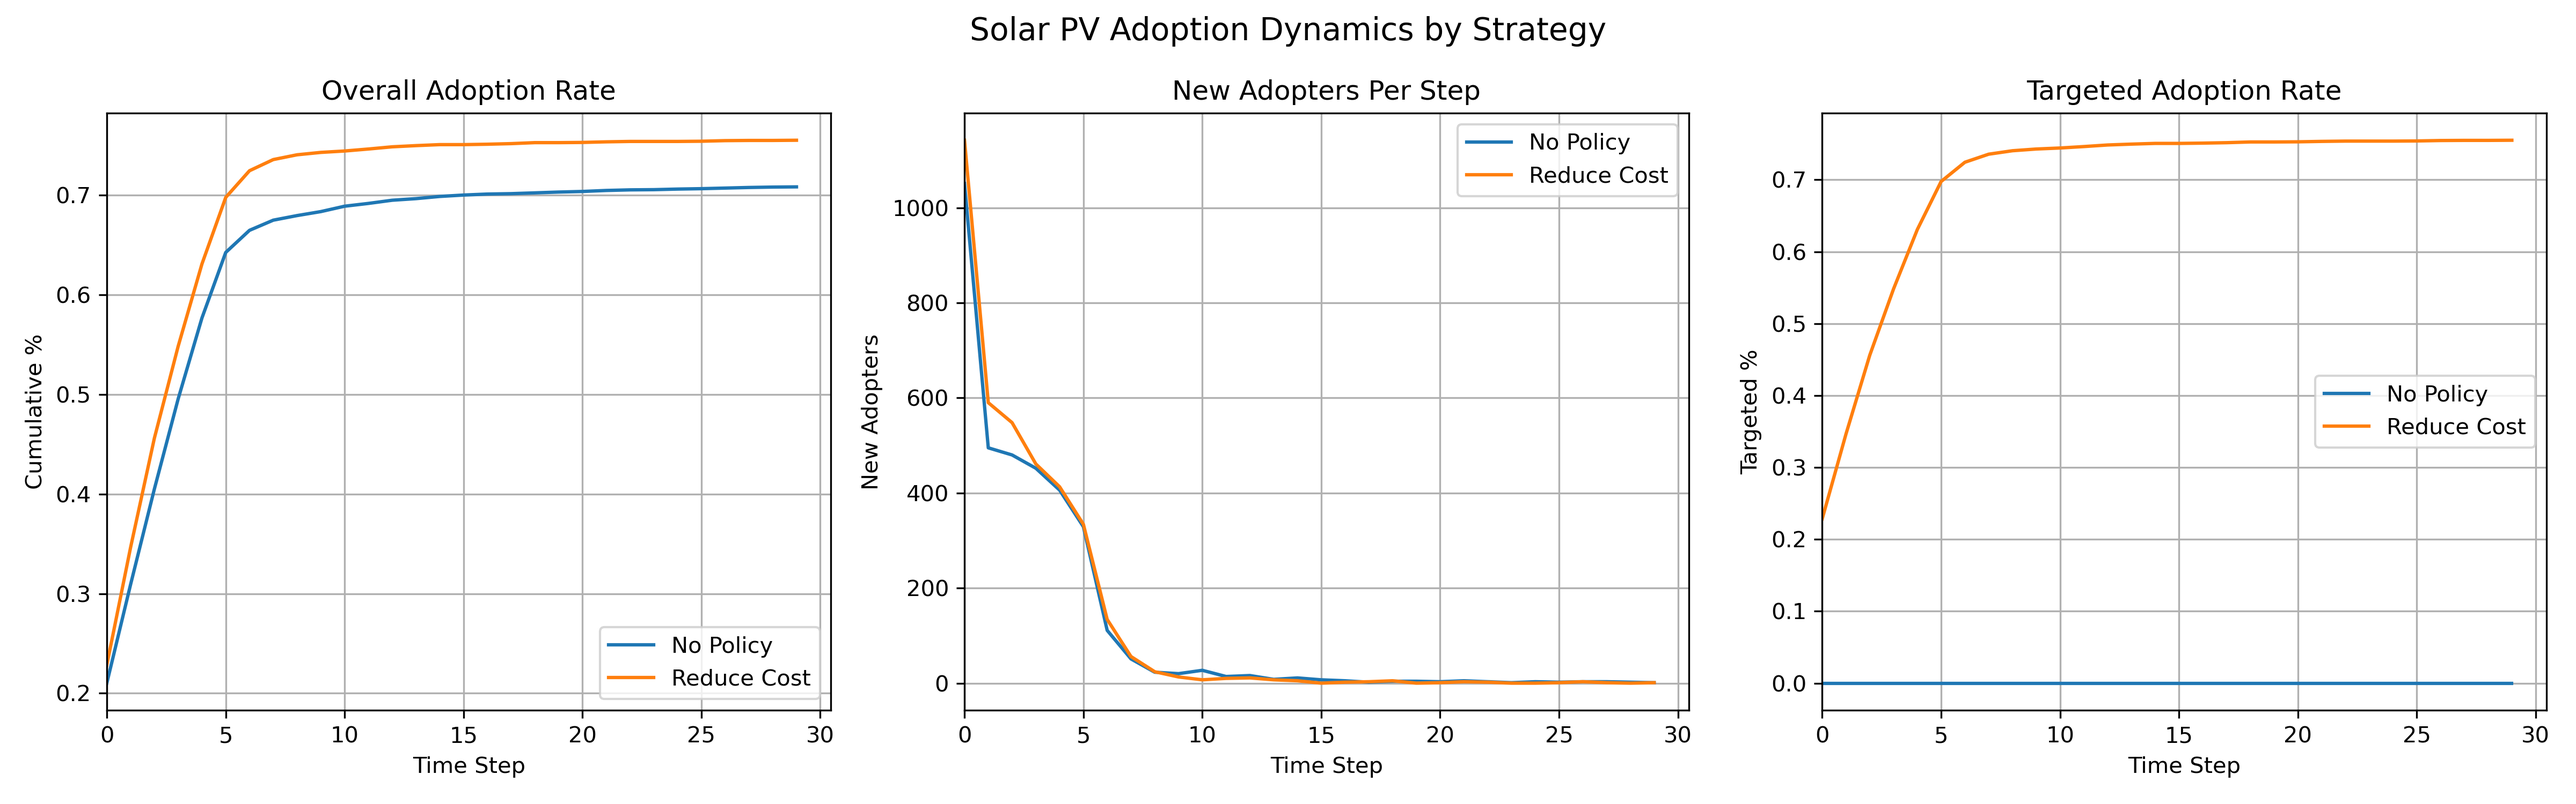
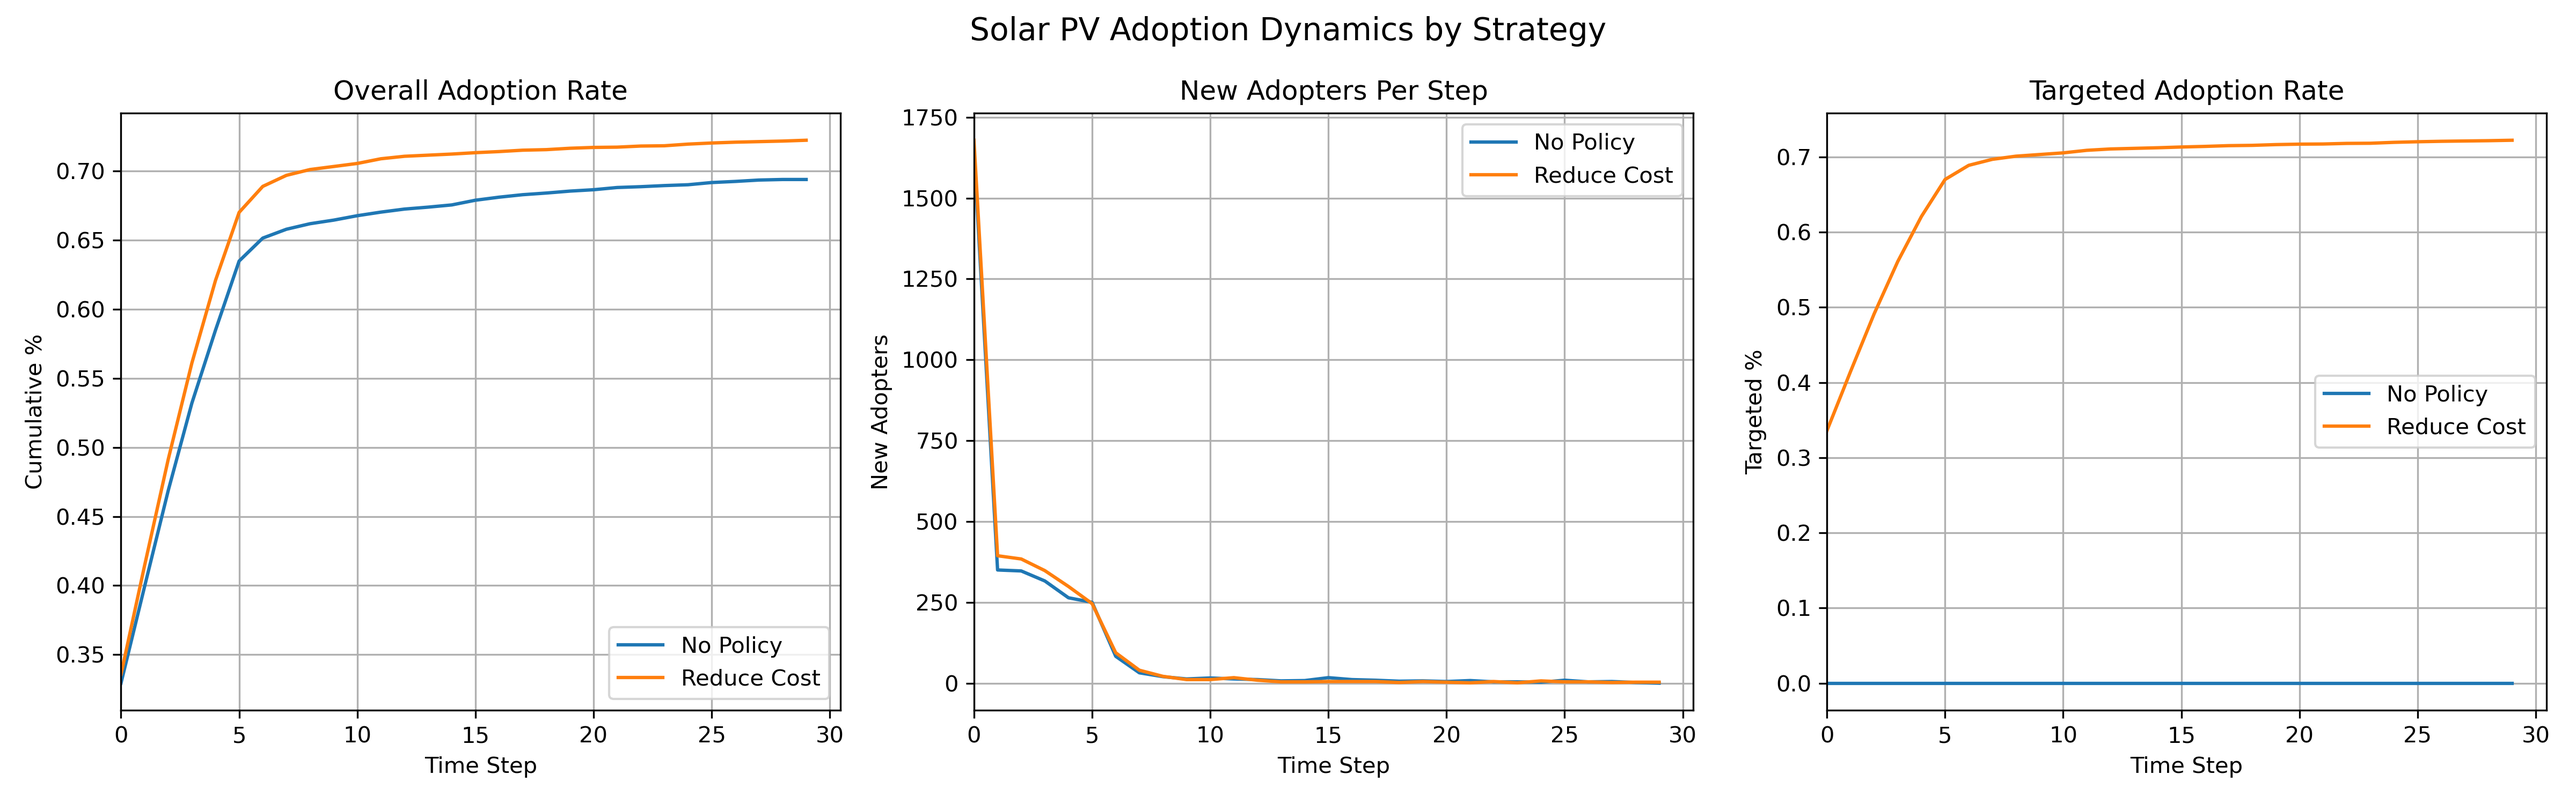
update plots

diff --git a/visualization.py b/visualization.py
@@ -1,43 +1,93 @@
 import matplotlib.pyplot as plt
 import networkx as nx
-import numpy as np
 import os
+from collections import Counter
+import numpy as np
 
-def plot_all_results(strategy_results_dict, save_path="result/adoption_withdataandpolicy.png"):
-    fig, axs = plt.subplots(1, 3, figsize=(16, 5))
-    axs = axs.flatten()
-
-    for strategy, result in strategy_results_dict.items():
-        label = strategy.replace("_", " ").title()
-        axs[0].plot(result["adoption_rate"], label=label)
-        axs[1].plot(result["new_adopters"], label=label)
-        axs[2].plot(result["targeted_adoption_rate"], label=label)
-
-    axs[0].set_title("Overall Adoption Rate")
-    axs[0].set_ylabel("Cumulative %")
-    axs[0].set_xlabel("Time Step")
-    axs[0].grid(True)
-
-    axs[1].set_title("New Adopters Per Step")
-    axs[1].set_ylabel("New Adopters")
-    axs[1].set_xlabel("Time Step")
-    axs[1].grid(True)
-
-    axs[2].set_title("Targeted Adoption Rate")
-    axs[2].set_ylabel("Targeted %")
-    axs[2].set_xlabel("Time Step")
-    axs[2].grid(True)
-
-    for ax in axs:
-        ax.legend()
-        ax.set_xlim(left=0)
-
-    plt.suptitle("Solar PV Adoption Dynamics by Strategy", fontsize=14)
+def plot_adoption_rate(results_by_behavior):
+    plt.figure(figsize=(8, 5))
+    for name, results in results_by_behavior.items():
+        plt.plot(results["adoption_rate"], label=name)
+    plt.title("Overall Adoption Rate")
+    plt.xlabel("Time Step")
+    plt.ylabel("Cumulative %")
+    plt.grid(True)
+    plt.legend()
     plt.tight_layout()
-    plt.savefig(save_path, dpi=300)
+    plt.savefig("result/adoption_rate.png")
     plt.close()
 
-def visualize_network_diffusion(model, steps_to_plot=[0, 5, 10, 20, 30], save_dir="result"):
+
+def plot_new_adopters(results_by_behavior):
+    plt.figure(figsize=(8, 5))
+    for name, results in results_by_behavior.items():
+        plt.plot(results["new_adopters"], label=name)
+    plt.title("New Adopters per Step")
+    plt.xlabel("Time Step")
+    plt.ylabel("New Adopters")
+    plt.grid(True)
+    plt.legend()
+    plt.tight_layout()
+    plt.savefig("result/new_adopters.png")
+    plt.close()
+
+def plot_adoption_by_group(models_by_behavior):
+    household_types = ["single", "couple_no_kids", "with_kids", "single_parent"]
+    fig, axs = plt.subplots(2, 2, figsize=(14, 10))
+    axs = axs.flatten()
+
+    for i, ht in enumerate(household_types):
+        ax = axs[i]
+        for name, model in models_by_behavior.items():
+            series = model.results["group_adoption"].get(ht, [])
+            ax.plot(series, label=name)
+        ax.set_title(f"Adoption Rate - {ht}")
+        ax.set_xlabel("Time Step")
+        ax.set_ylabel("Cumulative %")
+        ax.grid(True)
+        ax.legend()
+
+    plt.tight_layout()
+    plt.savefig("result/adoption_by_group.png")
+    plt.close()
+
+
+def plot_status_transitions(models_by_behavior):
+    fig, axs = plt.subplots(1, len(models_by_behavior), figsize=(6 * len(models_by_behavior), 5))
+    if len(models_by_behavior) == 1:
+        axs = [axs]
+
+    for ax, (name, model) in zip(axs, models_by_behavior.items()):
+        for status, series in model.results["status_transitions"].items():
+            time_series = [series.get(t, 0) for t in range(len(model.results["adoption_rate"]))]
+            ax.plot(time_series, label=status)
+        ax.set_title(f"Status Transition - {name}")
+        ax.set_xlabel("Time Step")
+        ax.set_ylabel("Fraction of Agents")
+        ax.grid(True)
+        ax.legend()
+
+    plt.tight_layout()
+    plt.savefig("result/status_transitions.png")
+    plt.close()
+
+def plot_distributions(models_by_behavior):
+    for name, model in models_by_behavior.items():
+        dist = model.results["distributions"]
+        for var in ["V", "S", "P"]:
+            plt.figure(figsize=(8, 5))
+            for t, values in enumerate(dist[var]):
+                if t % 5 == 0:  # sample every 5 steps
+                    plt.hist(values, bins=30, alpha=0.5, label=f"t={t}", density=True)
+            plt.title(f"Distribution of {var} over Time ({name})")
+            plt.xlabel(var)
+            plt.ylabel("Density")
+            plt.legend()
+            plt.tight_layout()
+            plt.savefig(f"result/dist_{var}_{name}.png")
+            plt.close()
+
+def plot_network(model, steps_to_plot=[0, 5, 10, 20, 30], save_dir="result"):
     """
     Plots the network at specific time steps with color showing adoption.
     """

diff --git a/model_simple.py b/model_simple.py
@@ -10,8 +10,6 @@ class ABM:
     def __init__(self,
                  n_agents,
                  beta,
-                 #policy_dict,
-                 #feed_mode,
                  behavior_mode,
                  k_small_world,
                  net_level,
@@ -21,14 +19,12 @@ class ABM:
         self.n_agents = n_agents
         self.beta = beta
         self.policy = Policy(elec_price=0.4, feed_mode="net_metering", behavior_mode=behavior_mode)
-        # self.policy_dict = policy_dict
         self.k_small_world = k_small_world
         self.net_level = net_level
 
         self.agent_data = load_data()
         self.n_agents = min(self.n_agents, len(self.agent_data))
         self.agents = self._init_agents()
-        # self.policy_object = Policy(elec_price=0.4, policy_type="net_metering")
         self.compute_gain_fn = lambda agent, t: compute_gain(agent, t, self.policy)
 
 
@@ -46,8 +42,14 @@ class ABM:
 
         self.results = {
             "adoption_rate": [],
-            "targeted_adoption_rate": [],
             "new_adopters": [],
+            "group_adoption": defaultdict(list),
+            "status_transitions": defaultdict(lambda: defaultdict(int)),
+            "distributions": {
+                "V": [],
+                "S": [],
+                "P": []
+            }
         }
 
     def _init_agents(self):
@@ -82,11 +84,6 @@ class ABM:
     def _record(self, t):
         n_adopted = sum(1 for a in self.agents if a.adopted)
 
-        targeted = [a for a in self.agents if a.is_targeted]
-        n_targeted = len(targeted)
-        n_targeted_adopted = sum(1 for a in targeted if a.adopted)
-        targeted_rate = n_targeted_adopted / n_targeted if n_targeted > 0 else 0
-
         if t == 0:
             new_adopters = n_adopted
         else:
@@ -94,8 +91,30 @@ class ABM:
             new_adopters = n_adopted - int(prev_adopted)
 
         self.results["adoption_rate"].append(n_adopted / self.n_agents)
-        self.results.setdefault("targeted_adoption_rate", []).append(targeted_rate)
         self.results["new_adopters"].append(new_adopters)
+
+        group_map = defaultdict(list)
+        for a in self.agents:
+            group_map[a.household_type].append(a)
+        for g, ags in group_map.items():
+            self.results["group_adoption"][g].append(sum(1 for a in ags if a.adopted) / len(ags))
+
+        status_counts = defaultdict(int)
+        for a in self.agents:
+            status_counts[a.status] += 1
+        for s, count in status_counts.items():
+            self.results["status_transitions"][s][t] = count / self.n_agents
+
+        V_vals, S_vals, P_vals = [], [], []
+        for a in self.agents:
+            p, V, S, _ = a.compute_adoption_probability()
+            V_vals.append(V)
+            S_vals.append(S)
+            P_vals.append(p)
+
+        self.results["distributions"]["V"].append(V_vals)
+        self.results["distributions"]["S"].append(S_vals)
+        self.results["distributions"]["P"].append(P_vals)
 
     def get_results(self):
         return self.results

diff --git a/simulation_simple.py b/simulation_simple.py
@@ -1,6 +1,6 @@
 from model_simple import ABM
 from config import n_agents, n_steps, beta, k_small_world, net_level
-from visualization import plot_all_results, visualize_network_diffusion #, plot_network_graph, plot_spatial_heatmap
+from visualization import plot_adoption_by_group, plot_network, plot_adoption_rate, plot_new_adopters, plot_status_transitions, plot_distributions
 
 def run_simulation(behavior_mode):
     model = ABM(
@@ -23,26 +23,19 @@ if __name__ == "__main__":
     ]
 
 
-    all_results = {}
-    models_by_strategy = {}
+    results_by_behavior = {}
+    models_by_behavior = {}
 
     for behavior_mode in policy_list:
         print(f"Running simulation for: {behavior_mode}")
         model = run_simulation(behavior_mode)
-        models_by_strategy[behavior_mode] = model
-        all_results[behavior_mode] = model.get_results()
-
-    # for policy_dict in policy_list:
-    #     print(f"Running simulation for: {policy_dict}")
-    #     model = run_simulation(policy_dict)
-    #     models_by_strategy[policy_dict] = model
-    #     all_results[policy_dict] = model.get_results()
-
-    plot_all_results(all_results)
-
-    # focus_strategy = "support_vulnerable"
-    #plot_network_graph(models_by_strategy[focus_strategy])
-    #plot_spatial_heatmap(models_by_strategy[focus_strategy])
-    visualize_network_diffusion(model, steps_to_plot=[0, 5, 10, 20, 30])
+        models_by_behavior[behavior_mode] = model
+        results_by_behavior[behavior_mode] = model.get_results()
 
 
+    plot_adoption_rate(results_by_behavior)
+    plot_new_adopters(results_by_behavior)
+    plot_adoption_by_group(models_by_behavior)
+    plot_status_transitions(models_by_behavior)
+    plot_distributions(models_by_behavior)   
+    plot_network(model, steps_to_plot=[0, 5, 10, 20, 30])

diff --git a/agent_simple.py b/agent_simple.py
@@ -122,7 +122,7 @@ class HouseholdAgent:
         # if self.lihezlek:
         #     base += -0.3
         # return base
-        return np.random.normal(loc=-2.0, scale=0.5)
+        return np.random.normal(loc=-3.0, scale=0.5)
 
 
 
@@ -284,7 +284,7 @@ class HouseholdAgent:
                 base_Y += 2
         if self.lihe:
             base_Y -= 1.5
-        return np.clip(base_Y + np.random.normal(0, 1), 3, 10)
+        return np.clip(base_Y + np.random.normal(0, 1), 2, 6)
 
     def _sample_social_weight(self):
         dist_params = {

diff --git a/data_loader.py b/data_loader.py
@@ -58,7 +58,7 @@ def load_amsterdam_data(max_agents=n_agents):
         for i in range(total):
             income = max(10000, sample_income())
             energielabel = random.choices(list("ABCDEFG"), weights=[0.15, 0.2, 0.25, 0.2, 0.1, 0.07, 0.03])[0]
-            adopted = random.random() < 0.25
+            adopted = random.random() < 0.15
 
             agent = {
                 "id": agent_id,

diff --git a/config.py b/config.py
@@ -9,9 +9,9 @@ import pandas as pd
 # n_agents = compute_n_agents()
 
 n_agents = 1000
-n_steps = 20
+n_steps = 40
 
-beta = [0.4, 1.2]  # β₁, β₂
+beta = [0.2, 0.8]  # β₁, β₂
 # gamma = [0.6, -0.4, -0.3, -0.5, 0.3, 0.5, 0.2]
 # gamma = [income, lihe, lekwi, lihezlek, no_kids, with_kids, nonfamily_group]
 THETA = 2000

diff --git a/network_geo.py b/network_geo.py
@@ -69,6 +69,8 @@ def add_long_links(agents, agent_k_map, filter_fn=None):
                 continue
 
             agent.neighbors.append(candidate)
+            candidate.neighbors.append(agent)
+
             new_links.add(candidate)
 
         agent.n_neighbors = len(agent.neighbors)
